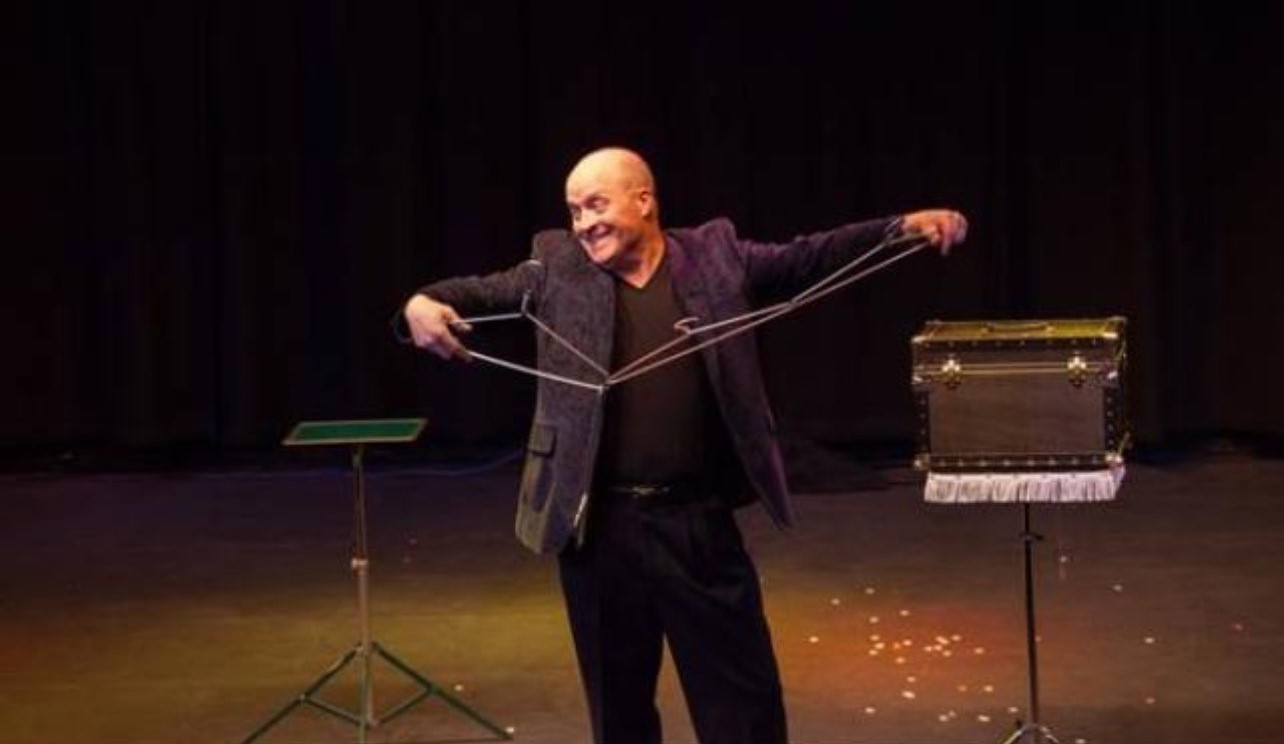
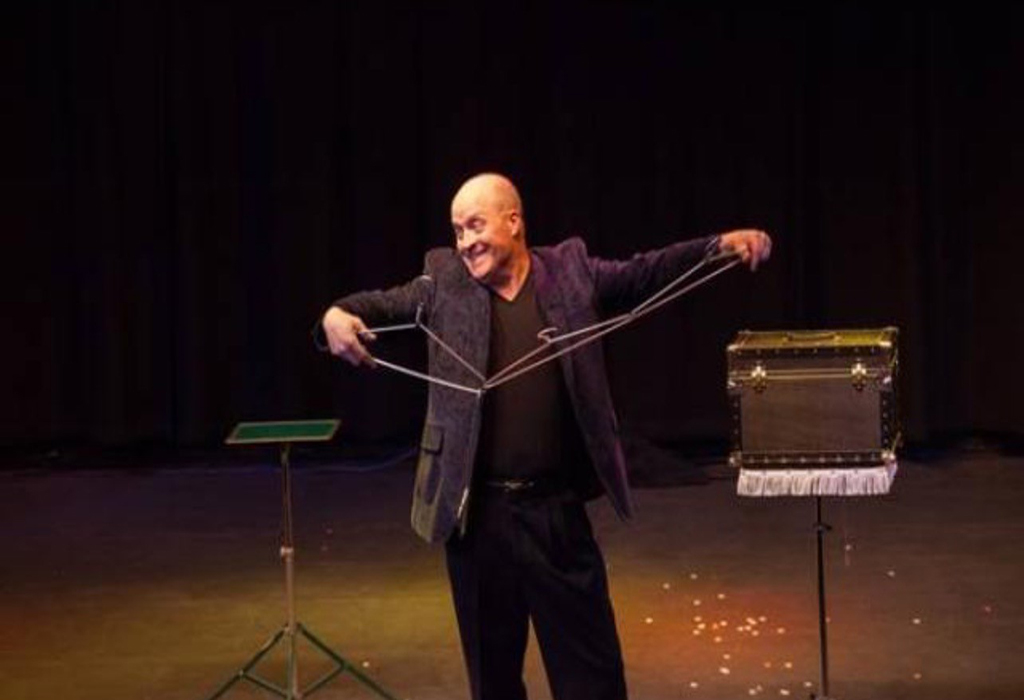
resize photos and add video section

diff --git a/index.html b/index.html
@@ -39,6 +39,7 @@
                         <li class="nav-item"><a class="nav-link" href="#about">About</a></li>
                         <li class="nav-item"><a class="nav-link" href="#portfolio">Services</a></li>
                         <li class="nav-item"><a class="nav-link" href="#photos">Photos</a></li>
+                        <li class="nav-item"><a class="nav-link" href="#videos">Videos</a></li>
                         <li class="nav-item"><a class="nav-link" href="#contact">Contact</a></li>
                     </ul>
                 </div>
@@ -63,7 +64,7 @@
 
         <!-- About-->
         <section class="page-section bg-primary" id="about">
-            <div class="container px-4 px-lg-5" style="margin-top:100px;">
+            <div class="container px-4 px-lg-5">
                 <div class="row gx-4 gx-lg-5 justify-content-center">
                     <div class="col-lg-8 text-center">
                         <h2 class="text-white mt-0 mb-5">COMEDY MAGICIAN & HYPNOTIST</h2>
@@ -76,8 +77,8 @@
         </section>
 
         <!-- Services -->
-        <section class="page-section" id="portfolio" style="margin-bottom:20px;">
-            <div class="container px-4 px-lg-5" style="margin-top:75px;">
+        <section class="page-section" id="portfolio">
+            <div class="container px-4 px-lg-5">
                 <!-- <h2 class="text-center mt-0">At Your Service</h2>
                 <hr class="divider" /> -->
                 <div class="row gx-4 gx-lg-5">
@@ -109,7 +110,7 @@
 
         <!-- Start of Carousel -->
         <section id="photos">
-        <div class="container"  style="margin-top:5px;">
+        <div class="container">
         <div id="demo" class="carousel slide mt-5" data-bs-ride="carousel">
 
             <!-- Indicators/dots -->
@@ -123,38 +124,49 @@
             <div class="carousel-inner" data-ride="carousel" id="carousel">
                 <div class="carousel-inner">
                 <div class="carousel-item active">
-                    <img class="d-block w-100" src="assets/img/jesse-back-crop.jpg" alt="First slide">
+                    <img class="img-fluid" src="assets/img/jesse-back-resized.jpg" style="object-fit:cover;" alt="First slide">
                 </div>
                 <div class="carousel-item">
-                    <img class="d-block w-100" src="assets/img/jm-lrg-bg-image.jpg" alt="Second slide">
+                    <img class="img-fluid d-block w-100" src="assets/img/jesse-hangers.jpg" alt="Second slide">
                 </div>
                 <div class="carousel-item">
-                    <img class="d-block w-100" src="assets/img/jesse-stretch.jpg" alt="Third slide">
+                    <img class="img-fluid d-block w-100" src="assets/img/jesse-stretch.jpg" alt="Third slide">
                 </div>
                 </div>
             </div>
 
             <!-- Left and right controls/icons -->
+            <div id="left-right">
             <button class="carousel-control-prev" type="button" data-bs-target="#demo" data-bs-slide="prev">
                 <span class="carousel-control-prev-icon"></span>
             </button>
             <button class="carousel-control-next" type="button" data-bs-target="#demo" data-bs-slide="next">
-            <span class="carousel-control-next-icon"></span>
+                <span class="carousel-control-next-icon"></span>
             </button>
+            </div>
         </div>
         </div>
-    </section>
-<!-- End of Carousel -->
-        
-        <!-- Call to action-->
-        <!-- <section class="page-section bg-dark text-white">
-            <div class="container px-4 px-lg-5 text-center"> -->
-                <!-- <h2 class="mb-4">Free Download at Start Bootstrap!</h2>
-                <a class="btn btn-light btn-xl" href="https://startbootstrap.com/theme/creative/">Download Now!</a> -->
-            <!-- </div>
-        </section> -->
+        </section>
+        <!-- End of Carousel -->
 
-        <!-- Contact-->
+        <!-- Videos -->
+        <section id="videos">
+
+            <div class="container px-5">
+                <h2 class="mt-0 mb-5">Videos</h2>
+                <div class="row gx-5">
+                    <div class="col pb-3">
+                        <iframe src="https://www.facebook.com/plugins/video.php?height=313&href=https%3A%2F%2Fwww.facebook.com%2F161193503926515%2Fvideos%2F485909494875%2F&show_text=false&width=560&t=0" width="560" height="313" style="border:none;overflow:hidden" scrolling="no" frameborder="0" allowfullscreen="true" allow="autoplay; clipboard-write; encrypted-media; picture-in-picture; web-share" allowFullScreen="true"></iframe>
+                    </div>
+                    <div class="col pb-3">
+                        <iframe src="https://www.facebook.com/plugins/video.php?height=313&href=https%3A%2F%2Fwww.facebook.com%2F161193503926515%2Fvideos%2F485909494875%2F&show_text=false&width=560&t=0" width="560" height="313" style="border:none;overflow:hidden" scrolling="no" frameborder="0" allowfullscreen="true" allow="autoplay; clipboard-write; encrypted-media; picture-in-picture; web-share" allowFullScreen="true"></iframe>
+                    </div>
+                </div>
+            </div>
+
+        </section>
+        
+        <!-- CONTACT -->
         <section class="page-section" id="contact">
             <div class="container px-4 px-lg-5">
                 <div class="row gx-4 gx-lg-5 justify-content-center">

diff --git a/scss/_small-default.scss b/scss/_small-default.scss
@@ -105,21 +105,37 @@ body {
 }
 
 /* Jesse Moffitt Carousel */
+#about {
+  padding-top:265px;
+}
+
+#portfolio {
+  padding-top:175px;
+}
+
 #carousel {
   height: 600px;
   // margin-top: 500px;
 }
 
 #photos {
-  padding-top: 175px;
+  padding-top: 200px;
 }
 
 #demo {
   margin-top: 400px;
 }
 
+#left-right {
+  padding-bottom: 50px;
+}
+
+#videos {
+  padding-top: 200px;
+}
+
 #contact {
-  padding-top: 235px;
+    padding-top: 225px;
 }
 
 /* -------END CUSTOM JM CODE------------ */

diff --git a/css/styles.css b/css/styles.css
@@ -213,20 +213,36 @@ body {
 }
 
 /* Jesse Moffitt Carousel */
+#about {
+  padding-top: 265px;
+}
+
+#portfolio {
+  padding-top: 175px;
+}
+
 #carousel {
   height: 600px;
 }
 
 #photos {
-  padding-top: 175px;
+  padding-top: 200px;
 }
 
 #demo {
   margin-top: 400px;
 }
 
+#left-right {
+  padding-bottom: 50px;
+}
+
+#videos {
+  padding-top: 200px;
+}
+
 #contact {
-  padding-top: 235px;
+  padding-top: 225px;
 }
 
 /* -------END CUSTOM JM CODE------------ */
